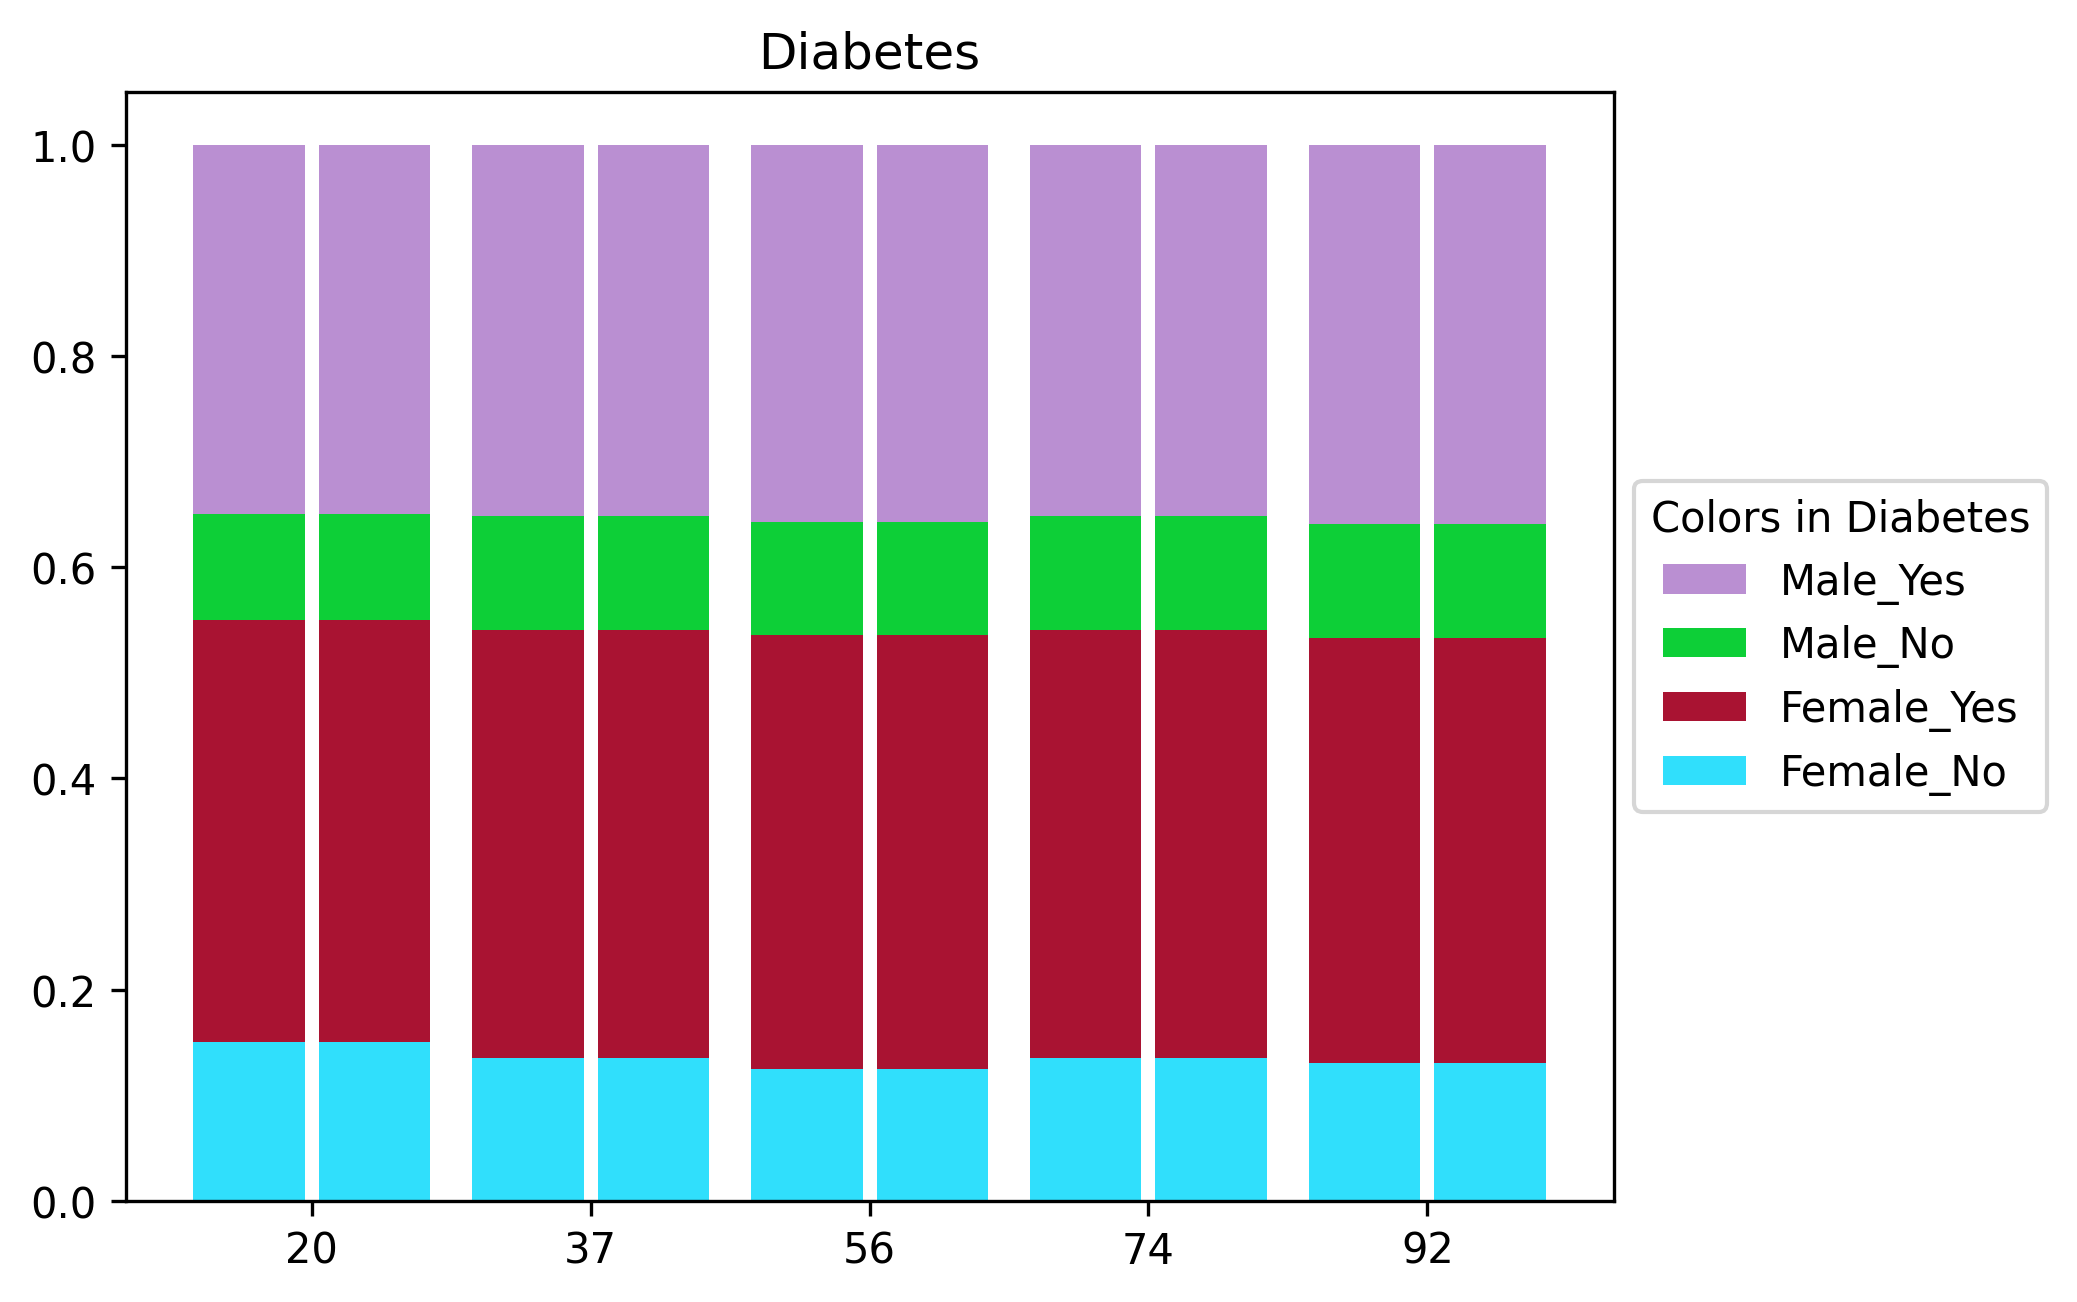
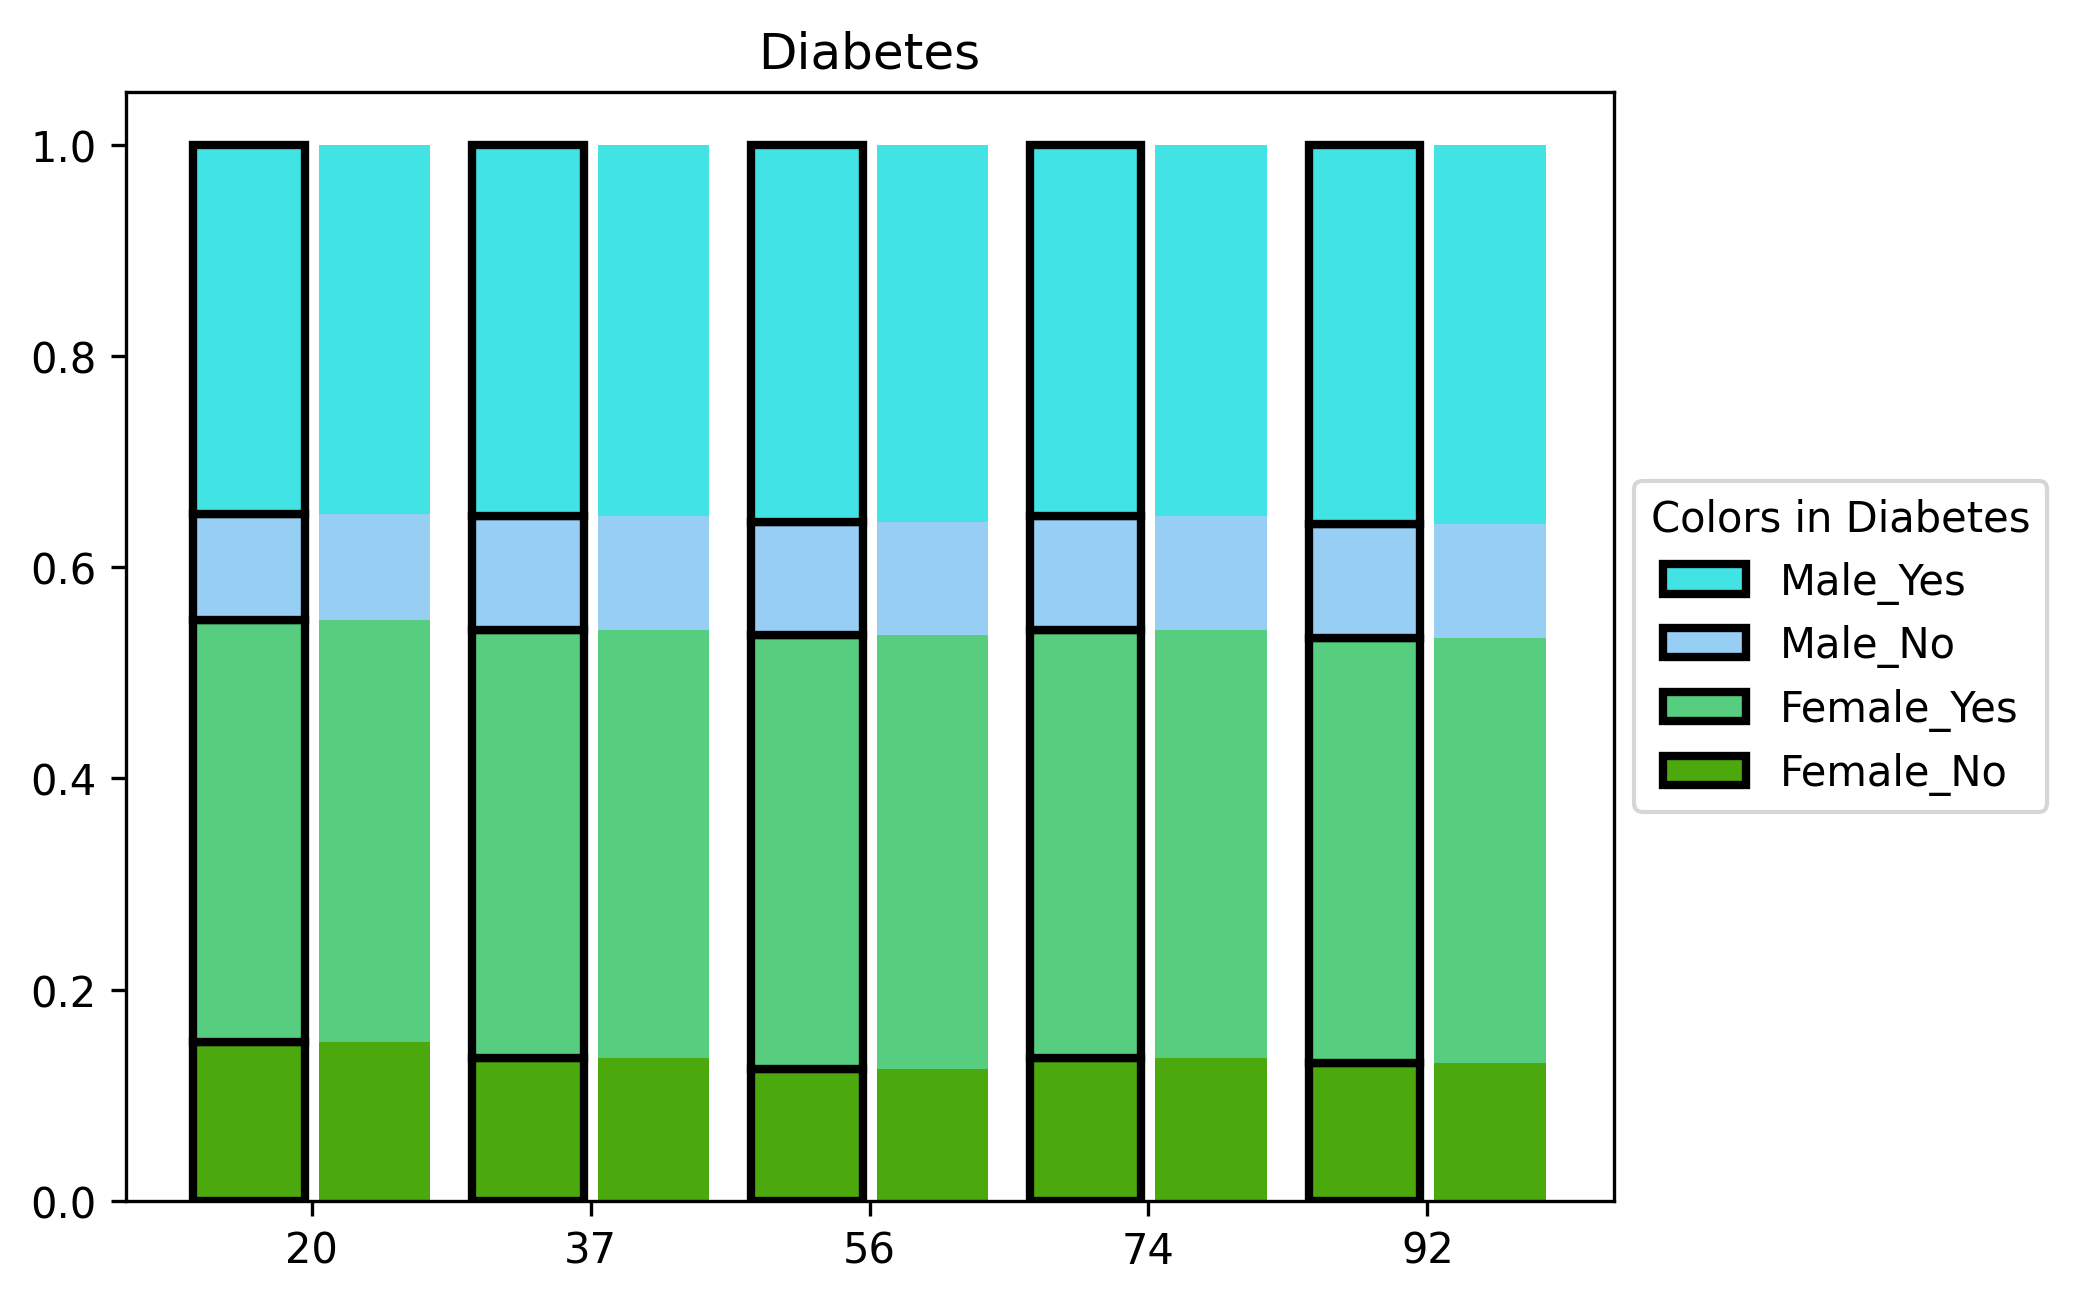
added border to expected k bar

diff --git a/plot_k.py b/plot_k.py
@@ -207,7 +207,7 @@ def plot_color_results(algorithm):
         bottom = np.zeros(len(ks))
         ind = np.arange(len(ks))
         for color in required_counts:
-            ax.bar(ind, required_counts[color], width, label=color, bottom=bottom, color = color_mappings[dataset][color])
+            ax.bar(ind, required_counts[color], width, label=color, bottom=bottom, color = color_mappings[dataset][color], edgecolor='black', linewidth = 2)
             bottom += required_counts[color]
         
         bottom = np.zeros(len(ks))
